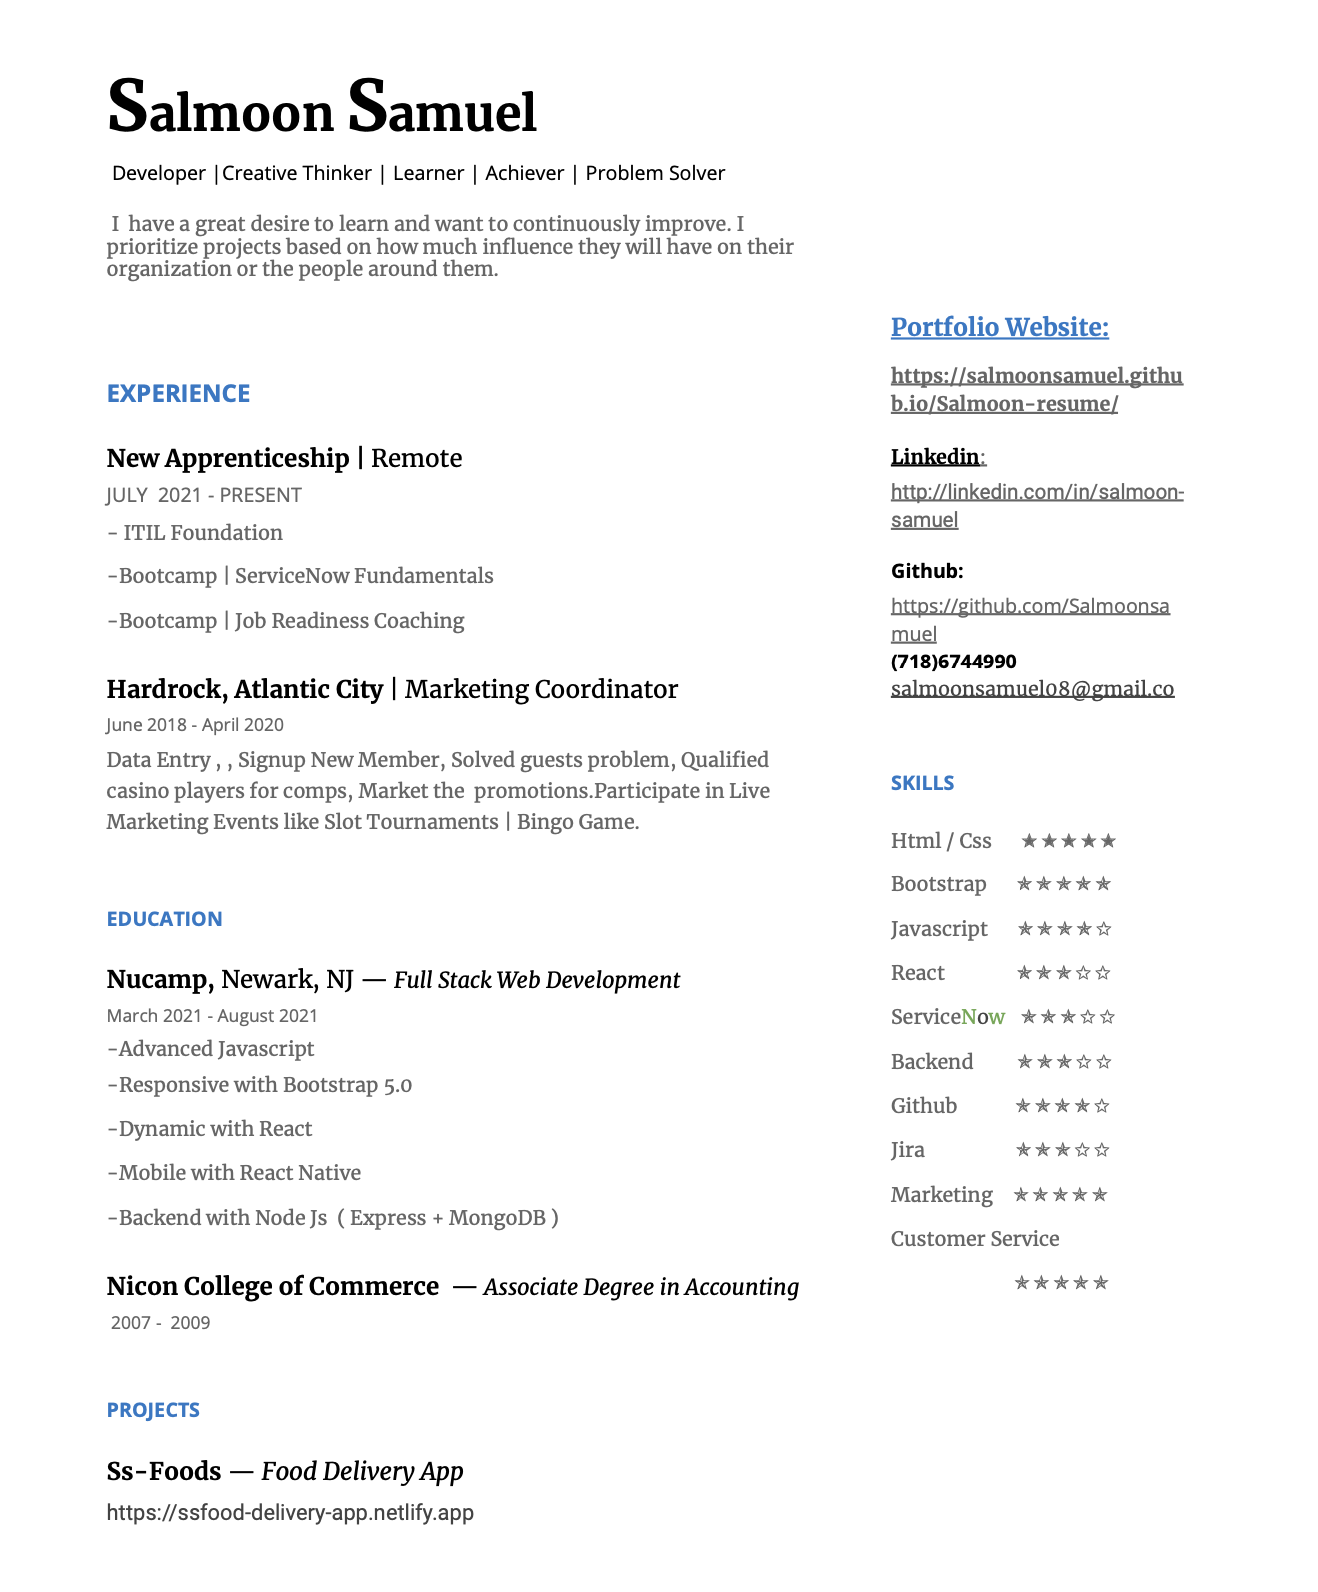
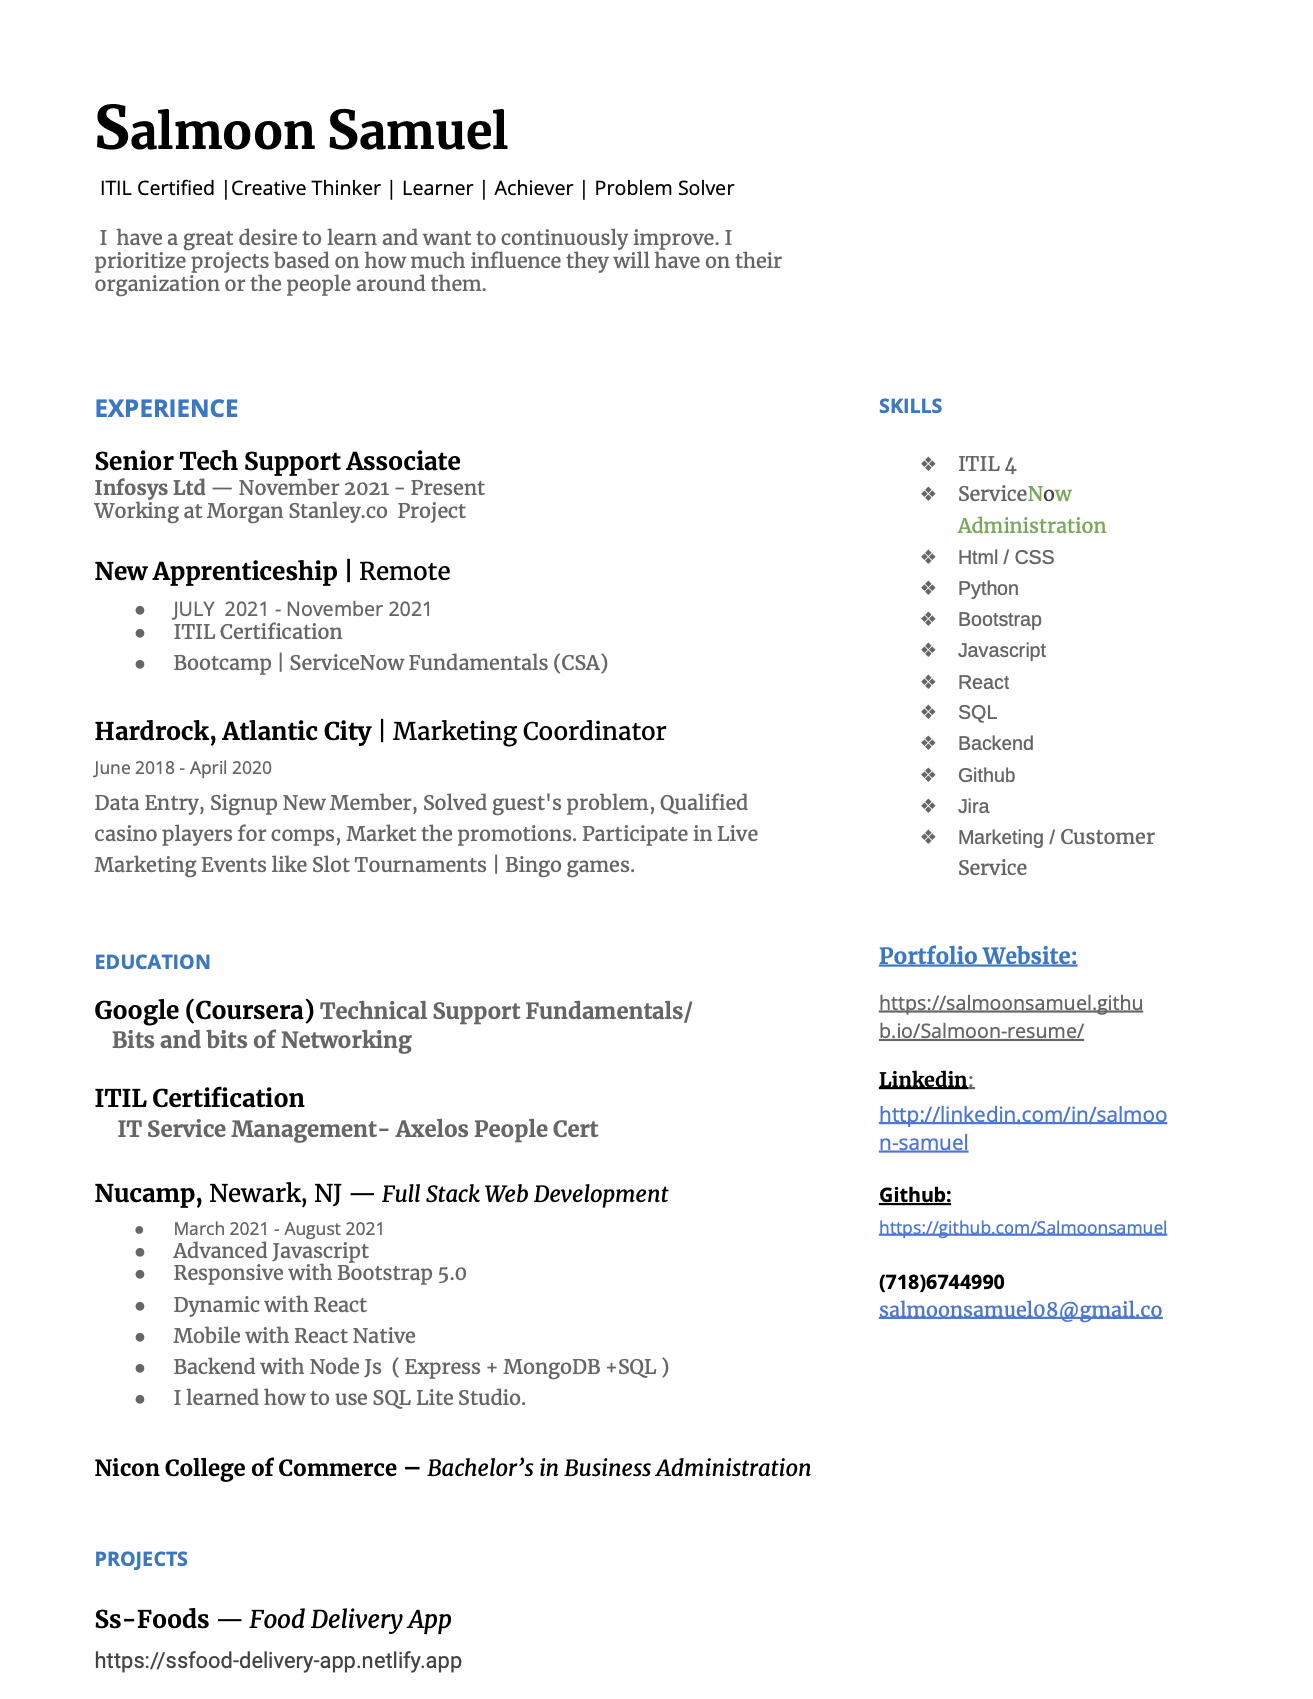
added some content

diff --git a/index.html b/index.html
@@ -44,7 +44,7 @@
             <h2 class="bio-title text-center ">Senior Tech-Support Associate</h2>
             <h6 class="text-center">Infosys LTD</h6>
             <p class="bio-text text-center fw-bold">
-            Developer | Innovator | Creative Thinker | Tech-Savvy | Complex Problem Solver:
+            <span class='text-info'>ITIL Certified</span> | <span class="text-warning">Innovator</span> | <span class="text-success">Creative Thinker</span> | Tech-Savvy | <span class="text-danger">Complex Problem Solver</span>
             </p>
             <!-- <h6 class="text-center"><a class="text-info" href="./certificates/cover letter r.pdf">Cover-Letter </a> | <a class="text-warning" href="./certificates/SalmoonResume.pdf">Resume </a></h6> -->
         </div>
@@ -56,7 +56,7 @@
             <h2>About Me</h2>
             <p class="text-center">
                 I have a great desire to learn and want to continuously improve.
-                I am Self-Organized. <br> I want to work in a professional & challenging
+                I am Self-Organized. <br> I have Time management Skills. I love to work with Teams and groups. I have Leadership skills. <br>I want to work in a professional & challenging
                 environment and to achieve highest Possible goals according to the
                 policy of the company.
             </p>
@@ -83,16 +83,17 @@
             </div>
         </div>
         <div class="bgColor">
-            <h3 class="fw-bold pt-3">Key Skills & Capabilities</h3>
+            <h3 class="fw-bold pt-3"><u>Key Skills & Capabilities</u></h3>
             <div class=" d-flex  mt-4 p-4">
-                <h3 class="fs-4 mx-2 fw-bold">ITIL </h3>
-                <h3 class="fs-4 mx-2 fw-bold">Scrum | Kanban | JIRA</h3>
-                <h3 class="fs-4 mx-2 fw-bold">Excel </h3>
-                <h3 class="fs-4 mx-2 fw-bold">PowerPoint </h3>
-                <h3 class="fs-4 mx-2 fw-bold">Java | Python | Javascript </h3>
+                <h3 class="fs-4 mx-2 fw-bold">ITIL | Certified</h3>
+                <h3 class="fs-4 mx-2 fw-bold text-danger">Scrum | Kanban | JIRA</h3>
+                <h3 class="fs-4 mx-2 fw-bold text-warning">MS-Word </h3>
+                <h3 class="fs-4 mx-2 fw-bold text-warning">Excel </h3>
+                <h3 class="fs-4 mx-2 fw-bold ">PowerPoint </h3>
+                <h3 class="fs-4 mx-2 fw-bold text-info">Java | Python | Javascript </h3>
                
                 <h3 class="fs-4 mx-2 fw-bold">SQL / MySQL <i class="fas fa-drum-steelpan text-primary "> </i> | </h3>
-                <h3 class="fs-4 fw-bold ">ServiceNow Administration<i class="fas fa-user-circle text-success"></i> </h3>
+                <h3 class="fs-4 fw-bold text-success">ServiceNow Administration<i class="fas fa-user-circle text-success"></i> </h3>
                
             </div>
         </div>
@@ -105,6 +106,39 @@
         <h1 class="fs-1  text-dark  text-center  fw-bold "> Education</h1>
         <div class="container ">
             <div class="row text-center ">
+                <div class="col-sm-6 col-md-12 pt-4 mt-4  card  border  border-secondary border-4 ">
+                    <div class="card-header  ">
+                        <h1 class="fs-2  text-light bg-dark  p-4 fw-bold text-center fw-bold ">Google IT Support Professional Certificate</h1>
+                    </div>
+                    <div class="card-body bgColor">
+                        <h2 class="card-title text-center pt-3 pb-4 fw-bold">Google | Coursera</h2>
+                        <!-- <h4 class="card-subtitle text-muted pb-4 text-center">July 2021 --- September 2021 </h4> -->
+                        <div class="row ">
+                            <div class="col-12 col-sm-12">
+                                <ul class=" fs-5 text-dark fw-bold">
+                                    <h3 class="fs-4 pb-3 fw-bold"><u>Technical Support Fundamentals</u> </h3>
+                                    <li class="fs-6 pb-4"> Introduction to IT Support  / Digital Logic / Computer Architecture <br>
+                                        Components of Computer / Installing an Operating System / Interacting with Softwares <br>
+                                        Troubleshooting Best Practices / Customer Service / Soft skills / Documentation
+                                    </li>
+                                    <h3 class="fs-4 pb-3 fw-bold"><u>Bits and Bytes of Computer Networking</u> </h3>
+                                    <li class="fs-6 pb-4"> Intro to Computer Networking / Tcp/IP Five Layer Network Model / Basics of Networking Devices  <br>
+                                        Intro to Networking Services / Name Resolutions / Dynamic Host Configuration Protocol / Network Address Translation<br>
+                                        VPNs and Proxies / Pots and Dial-up / WANs / Wireless Networking / Intro to Troubleshooting of Networking <br>
+                                        Verifying Connectivity / Digging into DNS / The Cloud / IPV6
+                                    </li>
+                                    <h3 class="fs-4 pb-3 fw-bold"><u>Operating Systems and you: Becoming a Power user</u> </h3>
+                                    <li class="fs-6 pb-4"> Basic Commands of CLI and GUI ( Windows - Linux - Mac) / File and Text manipulation  <br>
+                                        Users and Permissions / Users and Groups / File Permissions / Package and Software Management <br>
+                                        Software Distribution/ Package Managers / Device Software Management / Filesystems / Filesystem Types <br>
+                                        Process Management  Life in a Process / Managing Process / Process Utilizations / Remote Access / Virtualization / Logging / Operating system Deployment.
+                                    </li>
+                                </ul>
+                            </div>
+                            <hr>
+                        </div>
+                    </div>
+                </div>
                 <div class="col-12 col-sm-6 pt-4 mt-4  card  border  border-secondary border-4 ">
                     <div class="card-header  ">
                         <h1 class="fs-2  text-light bg-dark  p-4 fw-bold text-center fw-bold ">ServiceNow Apprenticeship</h1>
@@ -116,14 +150,16 @@
                             <div class="col-sm-12">
                                 <ul class=" fs-5 text-dark fw-bold">
                                     <h3 class="fs-3 pb-3 fw-bold"><u>ITILFoundation</u> </h3>
-                                    <li class="fs-4 ">ITIL 3 lifecycles and concepts</li>
+                                    <li class="fs-4 ">ITIL 3/4 lifecycles and concepts</li>
                                     <li class="fs-5 pb-4"> Agile Methodology / Software Development lifecycle / Scrum Methodology
                                     </li>
                                     <h3 class="fs-3 pb-3 fw-bold"><u>ServiceNow Fundamentals</u> </h3>
-                                    <li class="fs-4 pb-1">- ServiceNow Simulator Activities Including:</li>
-                                    <li class="fs-4 pb-4">- Task Management / Creating Incident and Reports / Service Catalog
+                                    <li class="fs-5 pb-1"><u>ServiceNow Simulator Activities Including:</u></li>
+                                    <li class="fs-6 pb-4">- Task Management / Creating Incident and Reports / Service Catalog
                                         Management / Knowledge base Management / Database Administration / Self-Service and Process
                                         Automation / Scripting / Development. </li>
+                                    <li class="fs-5 pb-1">ATF Fundamentals - Automated Test Framework</li>
+                                    <li class="fs-5 pb-1">FLow Designer Overview/Essentials</li>
                                 </ul>
                             </div>
                             <hr>
@@ -369,19 +405,19 @@
         <hr>
         </div>
     </section>
-    <section id="resume">
-            <div class="container pt-4">
+    <section id="resume" class=" bg-secondary">
+            <div class="container ">
                 <div class="row" >
                     <div class="row">
-                        <div class="col-5 col-sm-12 ">
-                            <h1 class="fs-2 pb-4 text-dark  text-center  fw-bold ">Let's Work Together</h1>
+                        <div class="col-sm-6 col-md-12">
+                            <h1 class="fs-2 pb-4 text-dark bg-light  text-center  fw-bold ">Let's Work Together</h1>
                         </div>
                     </div>
-                    <div class="col-5 col-sm-6">
+                    <!-- <div class="col-5 col-sm-6">
                         <img class="border border-secondary border-2" src="./assets/images/cover letter.png" width="600" height="550" />
-                    </div>
-                    <div class="col-5 col-sm-6">
-                        <img class="border border-secondary border-2" src="./assets/images/resume.png" width="600" height="550" />
+                    </div> -->
+                    <div class="col-12 col-sm-6 ">
+                        <img class="border border-secondary border-2" src="./assets/images/resume.png" width="1275" height="950" />
                     </div>
                 </div>
             </div>

diff --git a/assets/css/styles.css b/assets/css/styles.css
@@ -48,10 +48,10 @@ body {
   background-color: rgb(190, 221, 217);
 }
 
-section {
-  /* max-width: 1100px;
-  margin: auto; */
-}
+/* section {
+  max-width: 1100px;
+  margin: auto;
+} */
 
 /* CSS Resets end */
 
